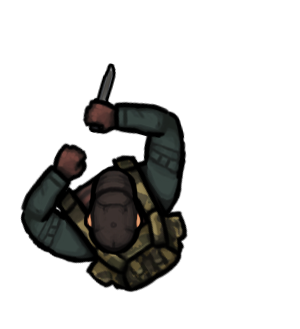
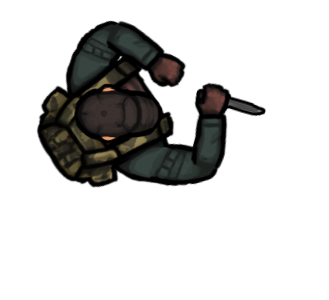
Vectors added

diff --git a/entities/Entity.py b/entities/Entity.py
@@ -1,4 +1,5 @@
 import pygame
+from pygame.math import Vector2
 import math
 """
 	An abstract class for future use.
@@ -11,15 +12,20 @@ class Entity(pygame.sprite.Sprite):
 		pygame.sprite.Sprite.__init__(self)
 
 		self.image = pygame.Surface(size)
-		self.image = pygame.image.load("entities/a.png")
-		self.image = pygame.transform.scale(self.image, (100, 100))
+		self.image = pygame.image.load("entities/b.png")
+		self.image = pygame.transform.scale(self.image, size)
 		#self.image.fill([255,255,255])
 		self.cpyimage = self.image.copy()
 		self.rect = self.image.get_rect(center=(50,50))
+		self.direction = Vector2(1,0)
+		self.pos = Vector2(self.rect.centerx, self.rect.centery + 20)
 		self.angle = 0
 
 	def move(self, x, y):
 		self.rect = self.rect.move(x, y)
+
+	def getPos(self):
+		return self.rect.get_pos();
 
 	def image(self):
 		return self.cpyimage
@@ -27,10 +33,14 @@ class Entity(pygame.sprite.Sprite):
 	def rect(self):
 		return self.rect
 
-	def rotate(self):
-		mouse_x, mouse_y = pygame.mouse.get_pos()
-		old = self.rect.center
-		self.angle = math.degrees(math.atan2(self.rect.centerx - mouse_x, self.rect.centery - mouse_y))
-		self.cpyimage = pygame.transform.rotozoom(self.image, self.angle, 1)
-		self.rect = self.cpyimage.get_rect(center=self.rect.center)
+	def angle(self):
+		return self.angle
 
+	def rotate(self):
+		mouseVec = pygame.mouse.get_pos() - self.pos
+		redius, self.angle = mouseVec.as_polar()
+		#self.angle = math.degrees(-math.atan2(mouse_y - self.rect.centery, mouse_x - self.rect.centerx))
+		self.cpyimage = pygame.transform.rotozoom(self.image, -self.angle, 1)
+		print(self.angle)
+		self.rect = self.cpyimage.get_rect(center=self.rect.center)
+		self.pos = Vector2(self.rect.centerx, self.rect.centery + 20)

diff --git a/Main.py b/Main.py
@@ -9,8 +9,8 @@ from entities.Entity import Entity
 
 window = Window()
 clock = pg.time.Clock()
-pg.key.set_repeat(10,10)
-size = [50,50]
+pg.key.set_repeat(10, 10)
+size = [100,100]
 speed = 3
 entity = Entity(size)
 
@@ -28,6 +28,8 @@ while 1:
 			entity.move(speed, 0)
 		if pg.key.get_pressed()[pg.K_LEFT]:
 			entity.move(-speed, 0)
+		#if pg.event.get().get_pressed(pg.MOUSEBUTTONDOWN):
+
 		entity.rotate()
 		window.flip(entity)
 		pg.display.update()

diff --git a/view/Window.py b/view/Window.py
@@ -10,7 +10,7 @@ pygame.init()
 
 class Window:
 	def __init__(self):
-		self.size = 500, 500#GetSystemMetrics(0), GetSystemMetrics(1)
+		self.size = GetSystemMetrics(0), GetSystemMetrics(1)
 		self.screen = pygame.display.set_mode(self.size)
 
 	def update(self):
